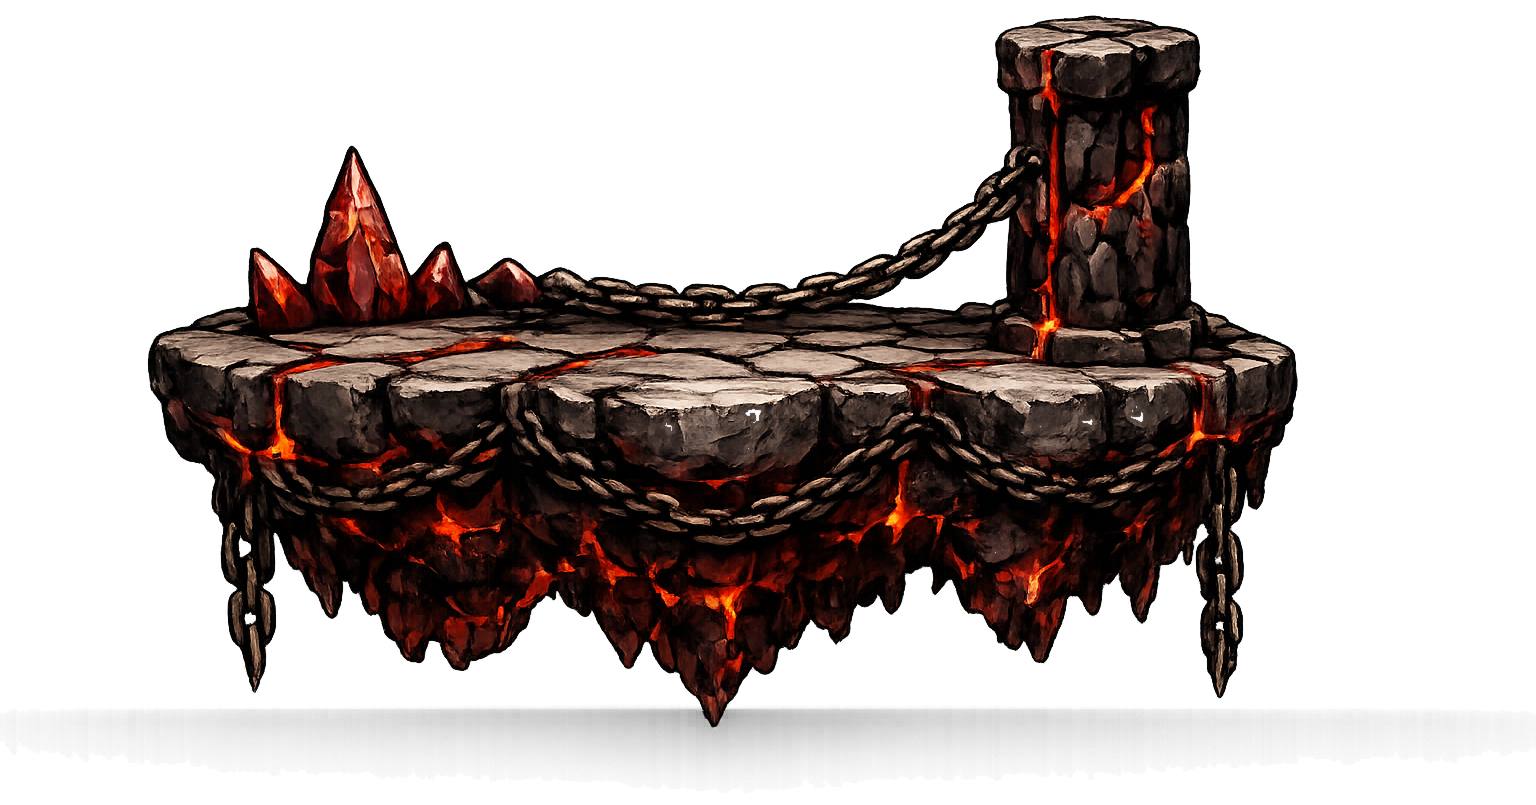
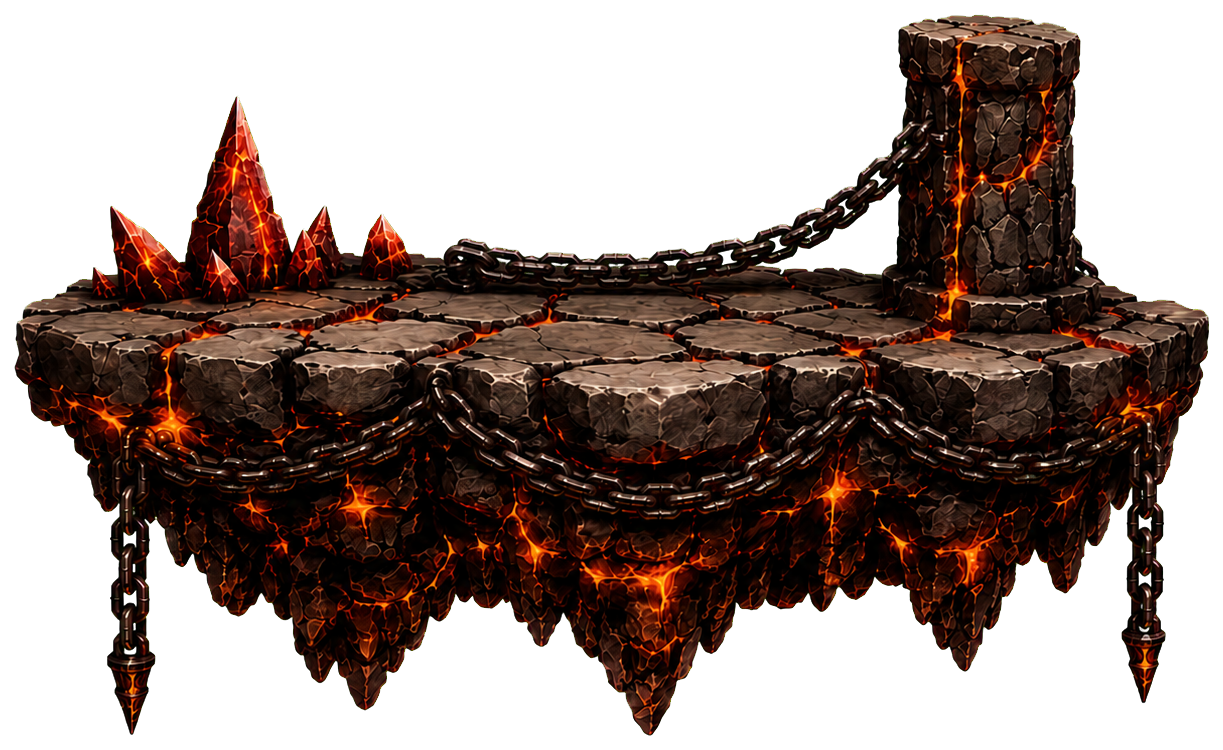
Replace Colt Run platform 09

diff --git a/app.js b/app.js
@@ -2047,6 +2047,7 @@ function startColtRunGame() {
   const smallPlatformSpriteIndex = 21;
   const platformAssetVersions = Array.from({ length: 22 }, () => "20260718-platform07-replace1");
   platformAssetVersions[4] = "20260718-platform05-replace1";
+  platformAssetVersions[8] = "20260718-platform09-replace1";
   const platformSpriteSources = platformAssetVersions.map((version, index) => (
     `assets/colt-run-platform-${String(index + 1).padStart(2, "0")}.png?v=${version}`
   ));

diff --git a/index.html b/index.html
@@ -8,7 +8,7 @@
 </head>
 <body>
   <main id="app" class="app-shell"></main>
-  <script src="app.js?v=20260718-platform05-replace1"></script>
+  <script src="app.js?v=20260718-platform09-replace1"></script>
 </body>
 </html>
 
